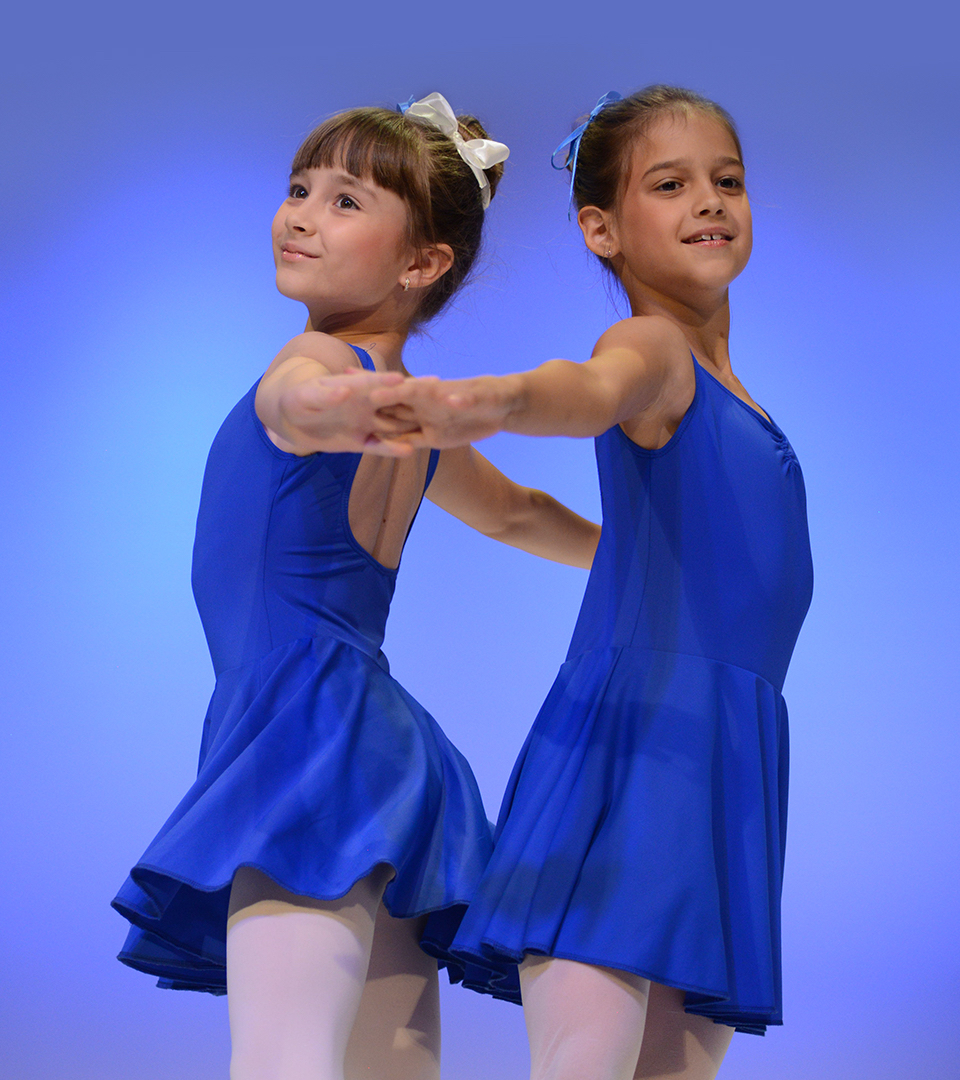
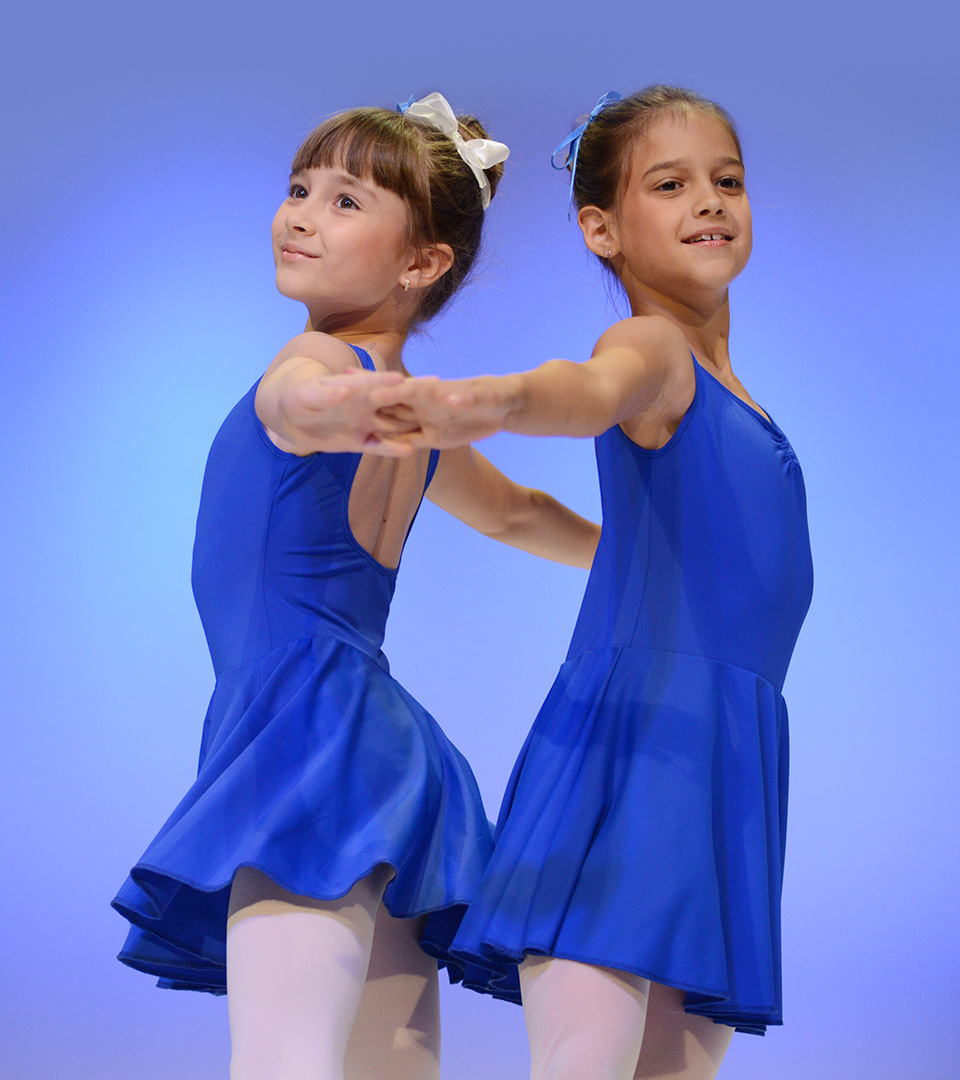
replace/modify landing images

diff --git a/src/assets/css/landing.css b/src/assets/css/landing.css
@@ -661,7 +661,7 @@
   background-image: url("../img/landing_sub/five-three.jpg");
 }
 .right.five.no-four {
-  background-image: url("../img/landing_sub/five-four.png");
+  background-image: url("../img/landing_sub/five-four.jpg");
 }
 .right.five.no-five {
   background-image: url("../img/landing_sub/five-five.jpg");
@@ -721,7 +721,7 @@
   background-image: url("../img/landing_sub/seven-six.jpg");
 }
 .right.eight {
-  background-image: url("../img/landing_bg_8.png");
+  background-image: url("../img/landing_bg_8.jpg");
 }
 .right.active {
   animation: scrolldown 500ms ease-in-out forwards;
@@ -1030,7 +1030,7 @@
     background-repeat: no-repeat;
     background-position: center 0;
     background-color: var(--color-blue-4);
-    background-image: url("../img/landing_mobile_bg_6.png");
+    background-image: url("../img/landing_mobile_bg_6.jpg");
     animation: unset;
     height: 20rem;
   }
